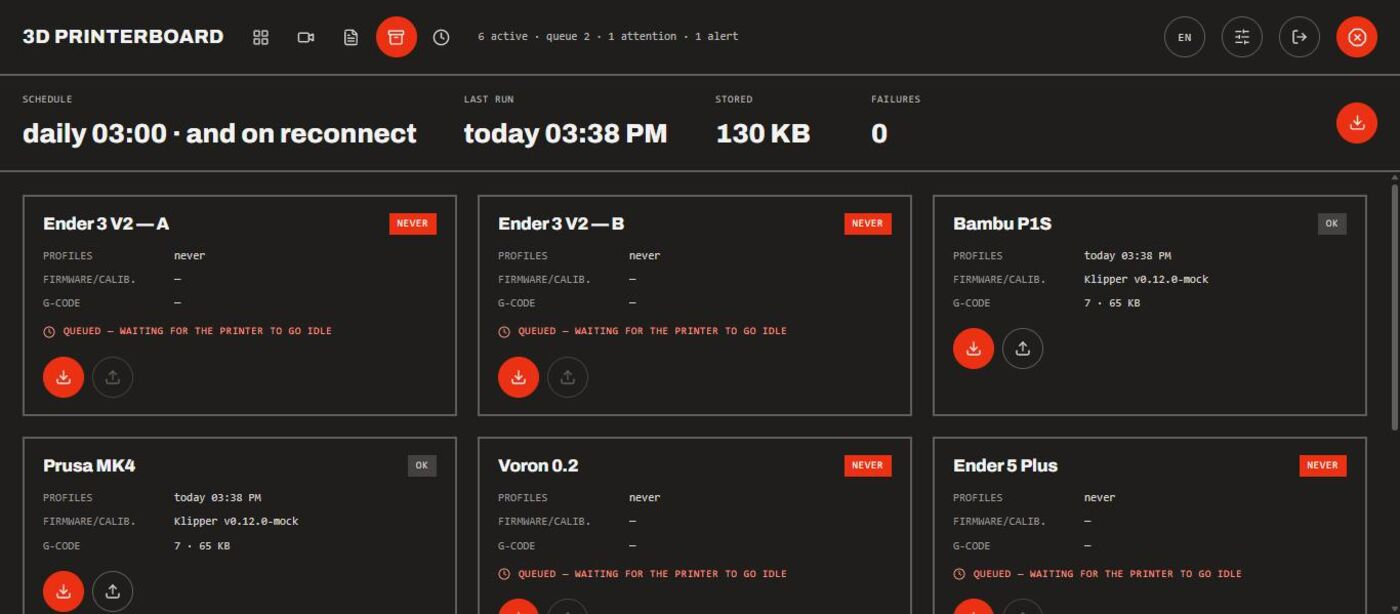
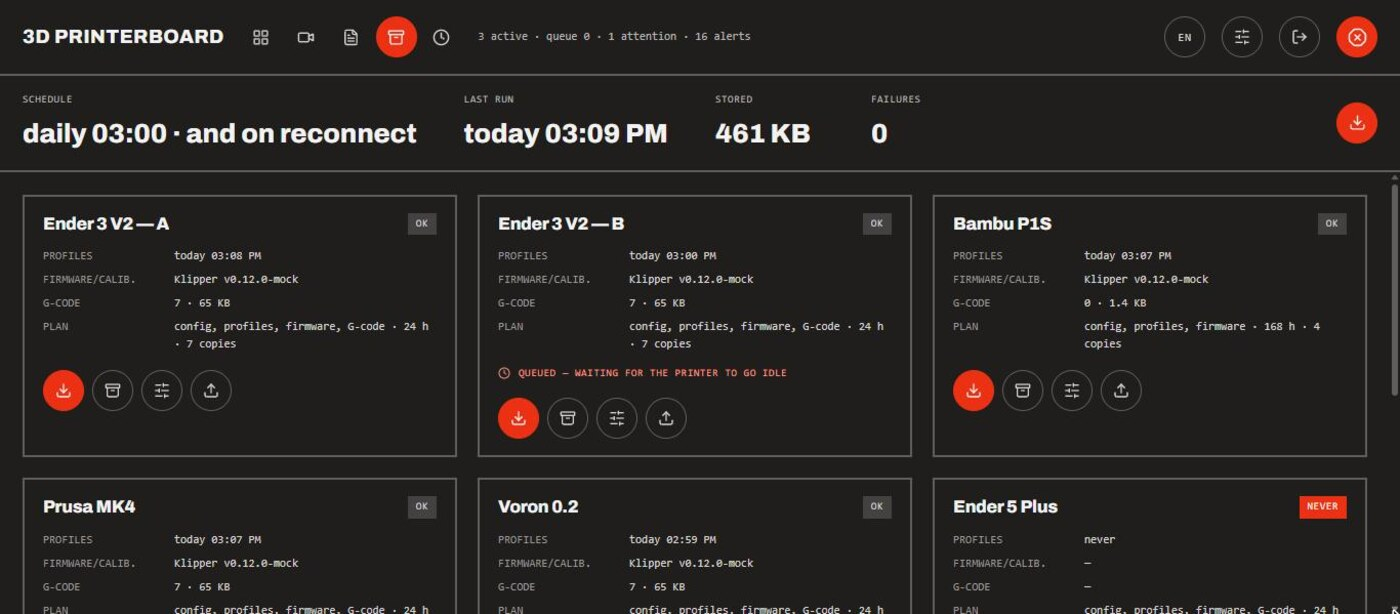
README: backup por impressora nas telas, papéis e screenshots
O texto ainda descrevia Backups como "estado, execução manual e restauração".
Agora diz o que mudou e a tabela de papéis separa baixar uma cópia (operador)
de mudar a configuração de backup (admin, porque diminuir a retenção apaga
cópias na hora).

As capturas de Backups foram refeitas com o card novo — linha do plano e os
quatro botões — e entrou uma do diálogo de configuração.

Claude-Session: https://claude.ai/code/session_01CDPZzg1FRw6kg3BR2HQUur

diff --git a/README.md b/README.md
@@ -3,7 +3,7 @@
 Run your 3D print farm from one screen — remotely, from your own server.
 Live cameras, print control, a G-code library with a queue, alerts, and the
 thing Moonraker does not do: **automatic backups of every machine's
-configuration**.
+configuration** — on each machine's own schedule, and downloadable as a zip.
 
 Built for people who own several Klipper/Moonraker printers and are tired of
 keeping one browser tab open per machine.
@@ -18,7 +18,9 @@ web app, and holds a persistent WebSocket to each Moonraker host.
 
 ![Sign in](docs/login.jpg)
 
-![Backups — per-machine state, with printers queued until they go idle](docs/backups.jpg)
+![Backups — per-machine state and plan, with printers queued until they go idle](docs/backups.jpg)
+
+![Backup settings — what to copy, how often, how many copies to keep](docs/backup-settings.jpg)
 
 </details>
 
@@ -99,7 +101,9 @@ the column shows the farm-wide queue.
 already holds a file and which one will print it. Queueing from a group sends
 the job to that group's printer; the selector at the top can override this to
 "next free" or to one specific machine.
-**Backups** — per-machine state, manual runs and restore.
+**Backups** — per-machine state, manual runs, per-machine settings (what to
+copy, how often, how many copies to keep), download of any stored copy, and
+restore.
 **Alerts** — list by severity, with the camera frame captured at that moment.
 **Settings** — printer CRUD.
 
@@ -141,8 +145,8 @@ own `print_stats.state`, so it also covers prints you started from Mainsail.
 | --- | --- | --- | --- |
 | See everything | ✓ | ✓ | ✓ |
 | Pause/resume/cancel, emergency stop, queue | | ✓ | ✓ |
-| Run a backup | | ✓ | ✓ |
-| Restore a backup, manage printers and users | | | ✓ |
+| Run a backup, download a stored copy | | ✓ | ✓ |
+| Restore a backup, change a printer's backup settings, manage printers and users | | | ✓ |
 
 Enforced on the server. The front end only mirrors it by disabling buttons.
 
@@ -272,7 +276,8 @@ npm run build -w @3dfarm/shared          # everything else depends on its dist
 MOCK_PRINTERS=true npm run dev:server    # API on :8080, data in ./data
 npm run dev:web                          # Vite on :5173, proxying the API
 
-npm test         # Vitest: normalizer, queue engine, MJPEG demuxer, mDNS codec, formatters
+npm test         # Vitest: normalizer, queue engine, backup schedule and packer,
+                 # MJPEG demuxer, mDNS codec, formatters
 npm run typecheck
 ```
 
